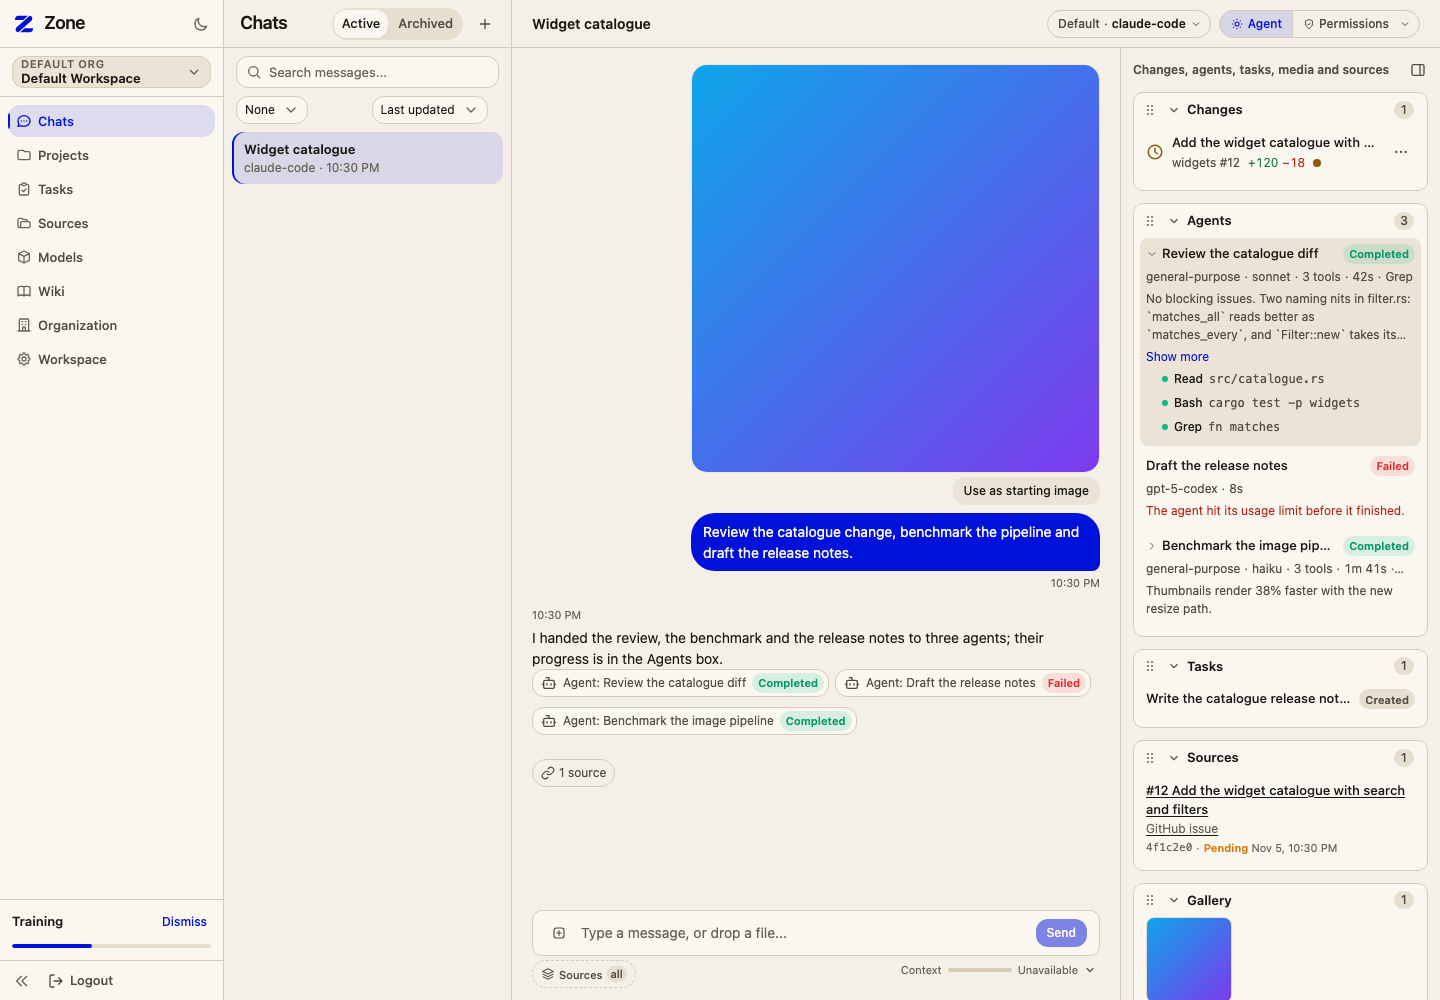
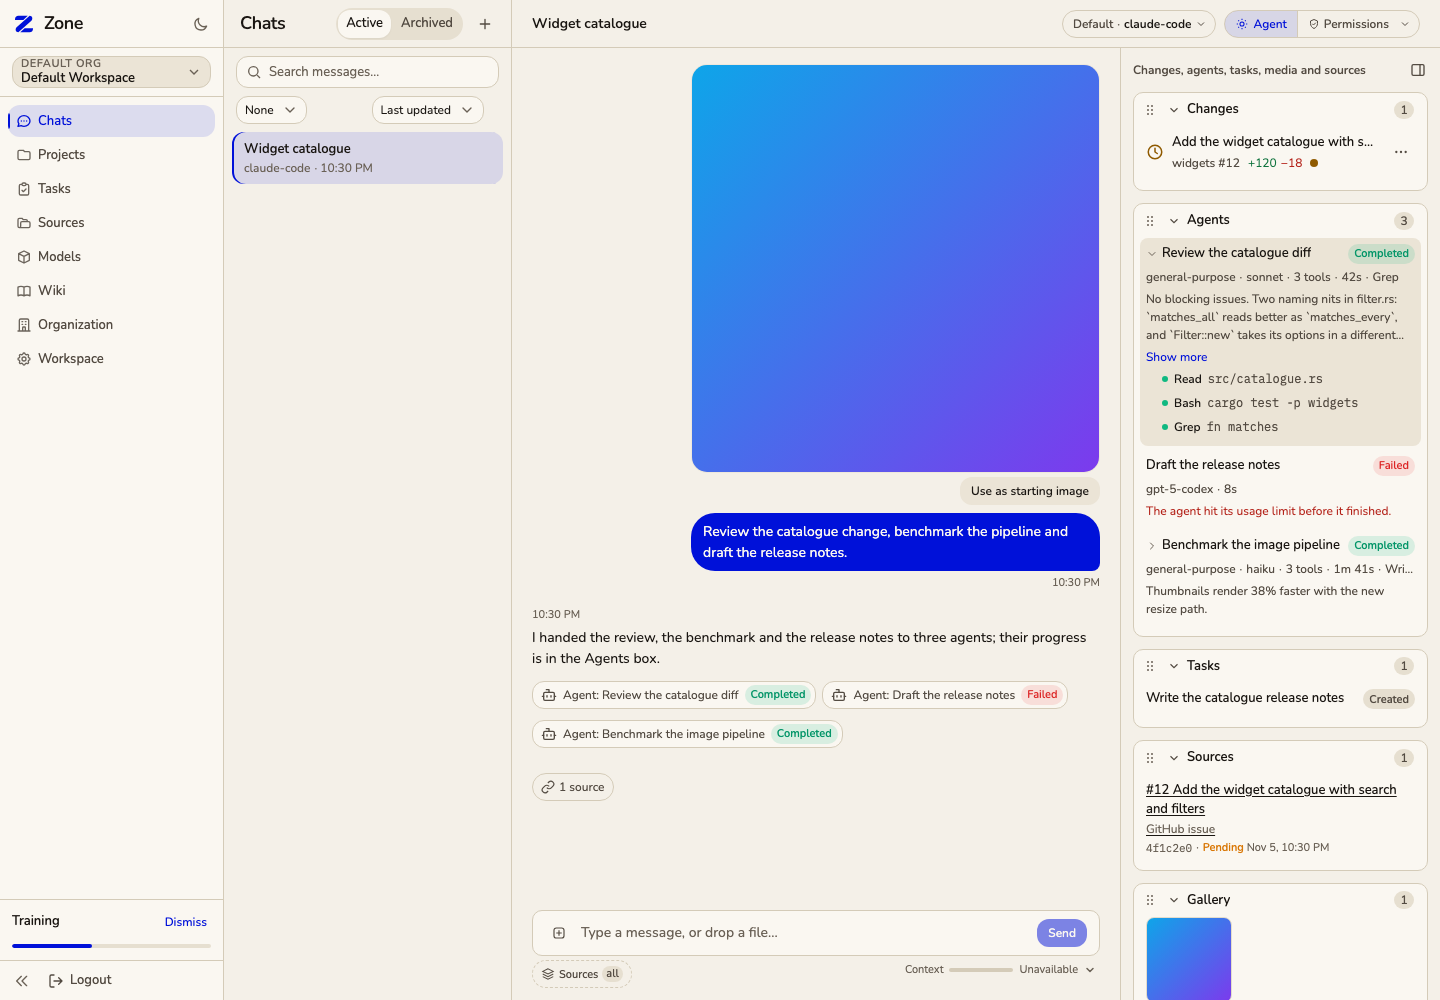
fix(chats): space a reply's agent chips from the text above them
Since the thread merges a reply's parts in order, the chips render straight
after the reply's last text with nothing between them, so they sat flush
against it. The chip list now takes the same space above it as below it.
The two screenshots that show chips are retaken; the others only changed by
rendering noise and stay as they were.

diff --git a/manager/frontend/src/features/chats/components/SubagentChip.css b/manager/frontend/src/features/chats/components/SubagentChip.css
@@ -2,7 +2,7 @@
   display: flex;
   flex-wrap: wrap;
   gap: var(--ui-space-1-5);
-  margin: 0 0 var(--ui-space-3);
+  margin: var(--ui-space-3) 0;
   padding: 0;
   list-style: none;
 }
